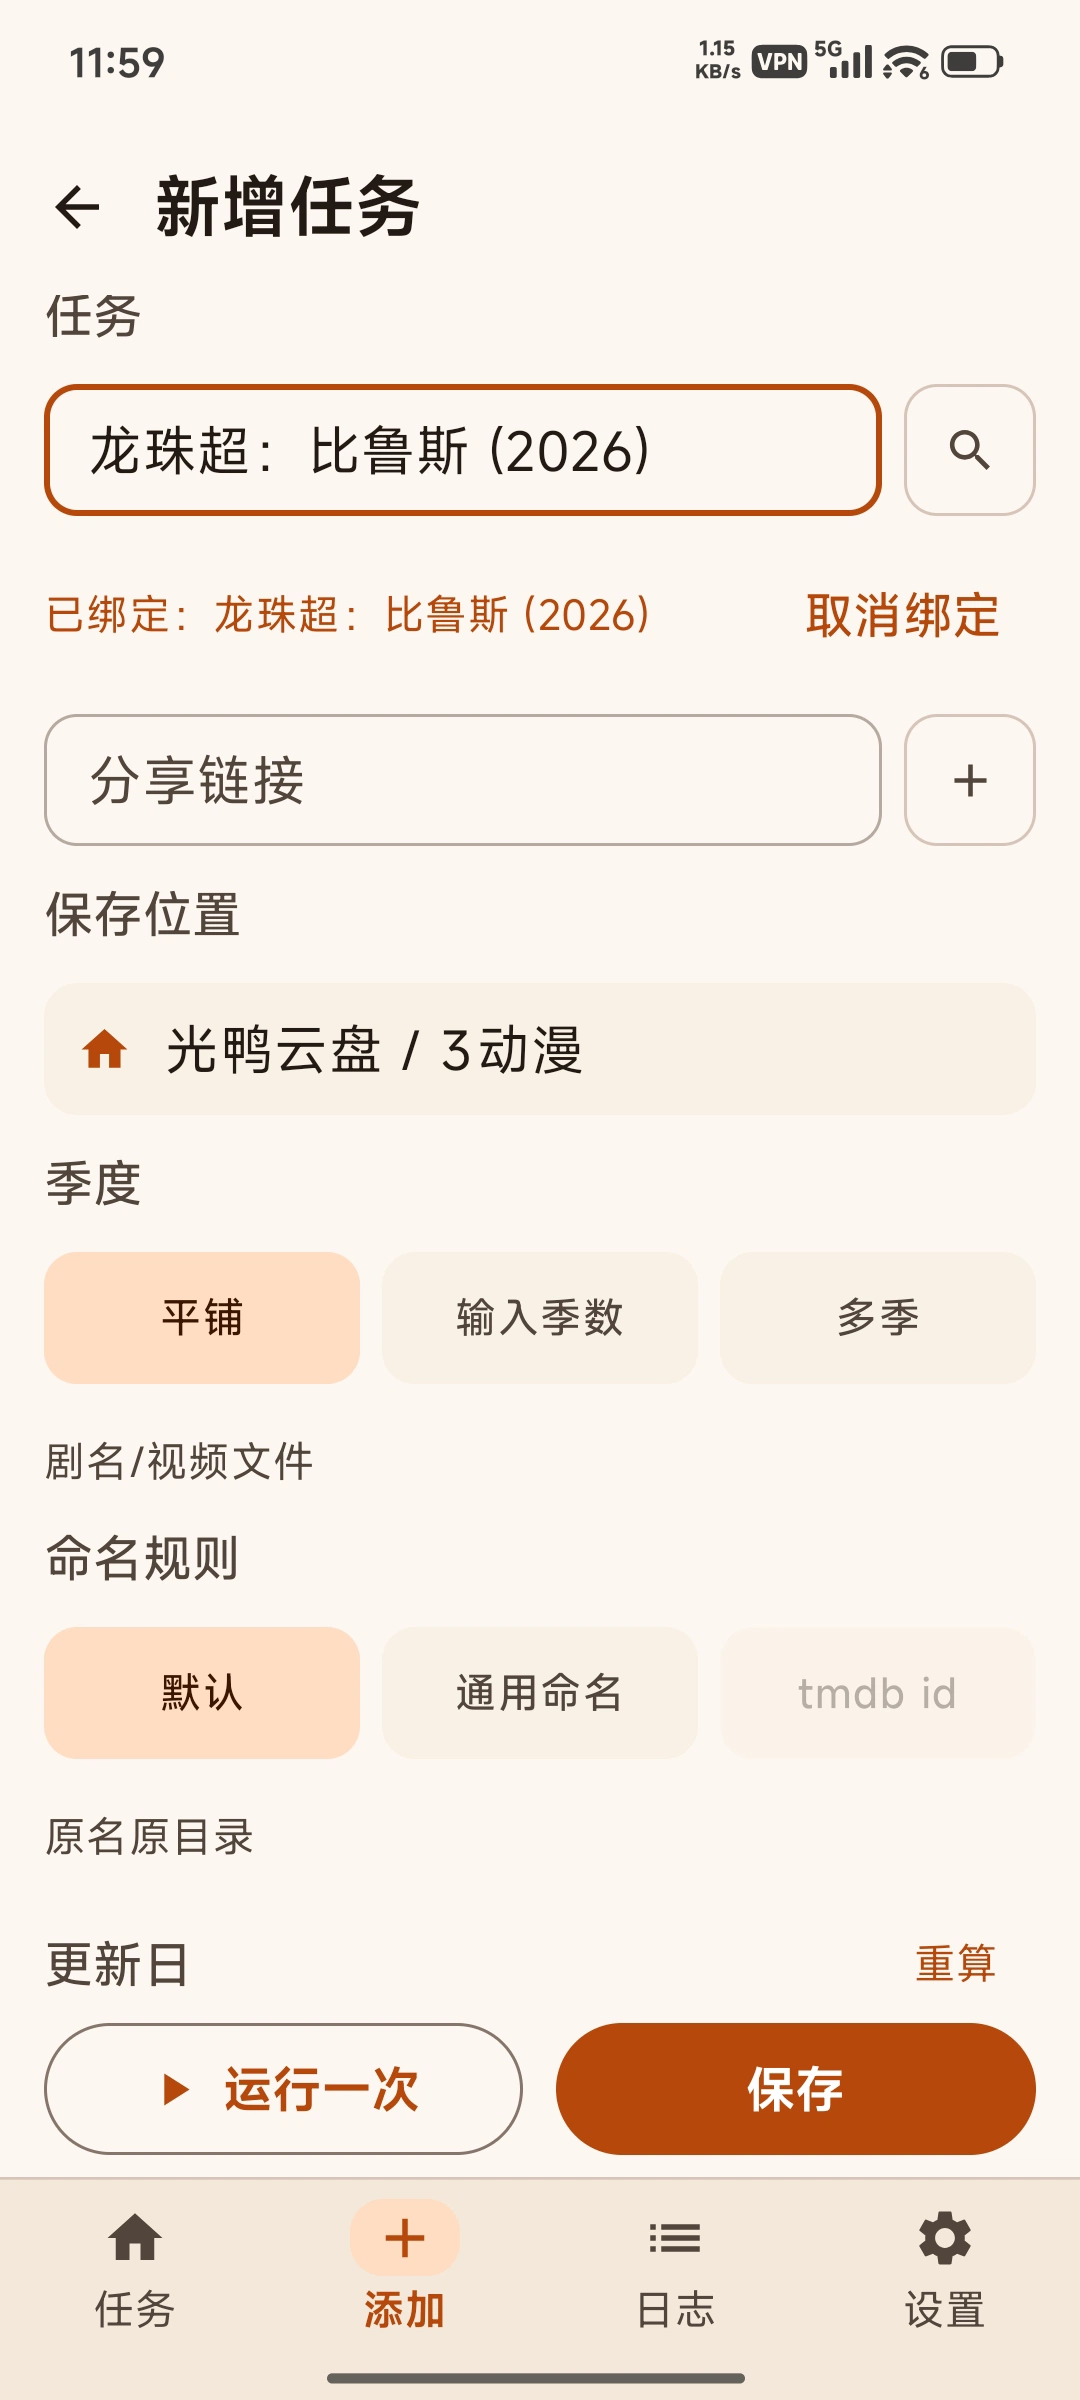
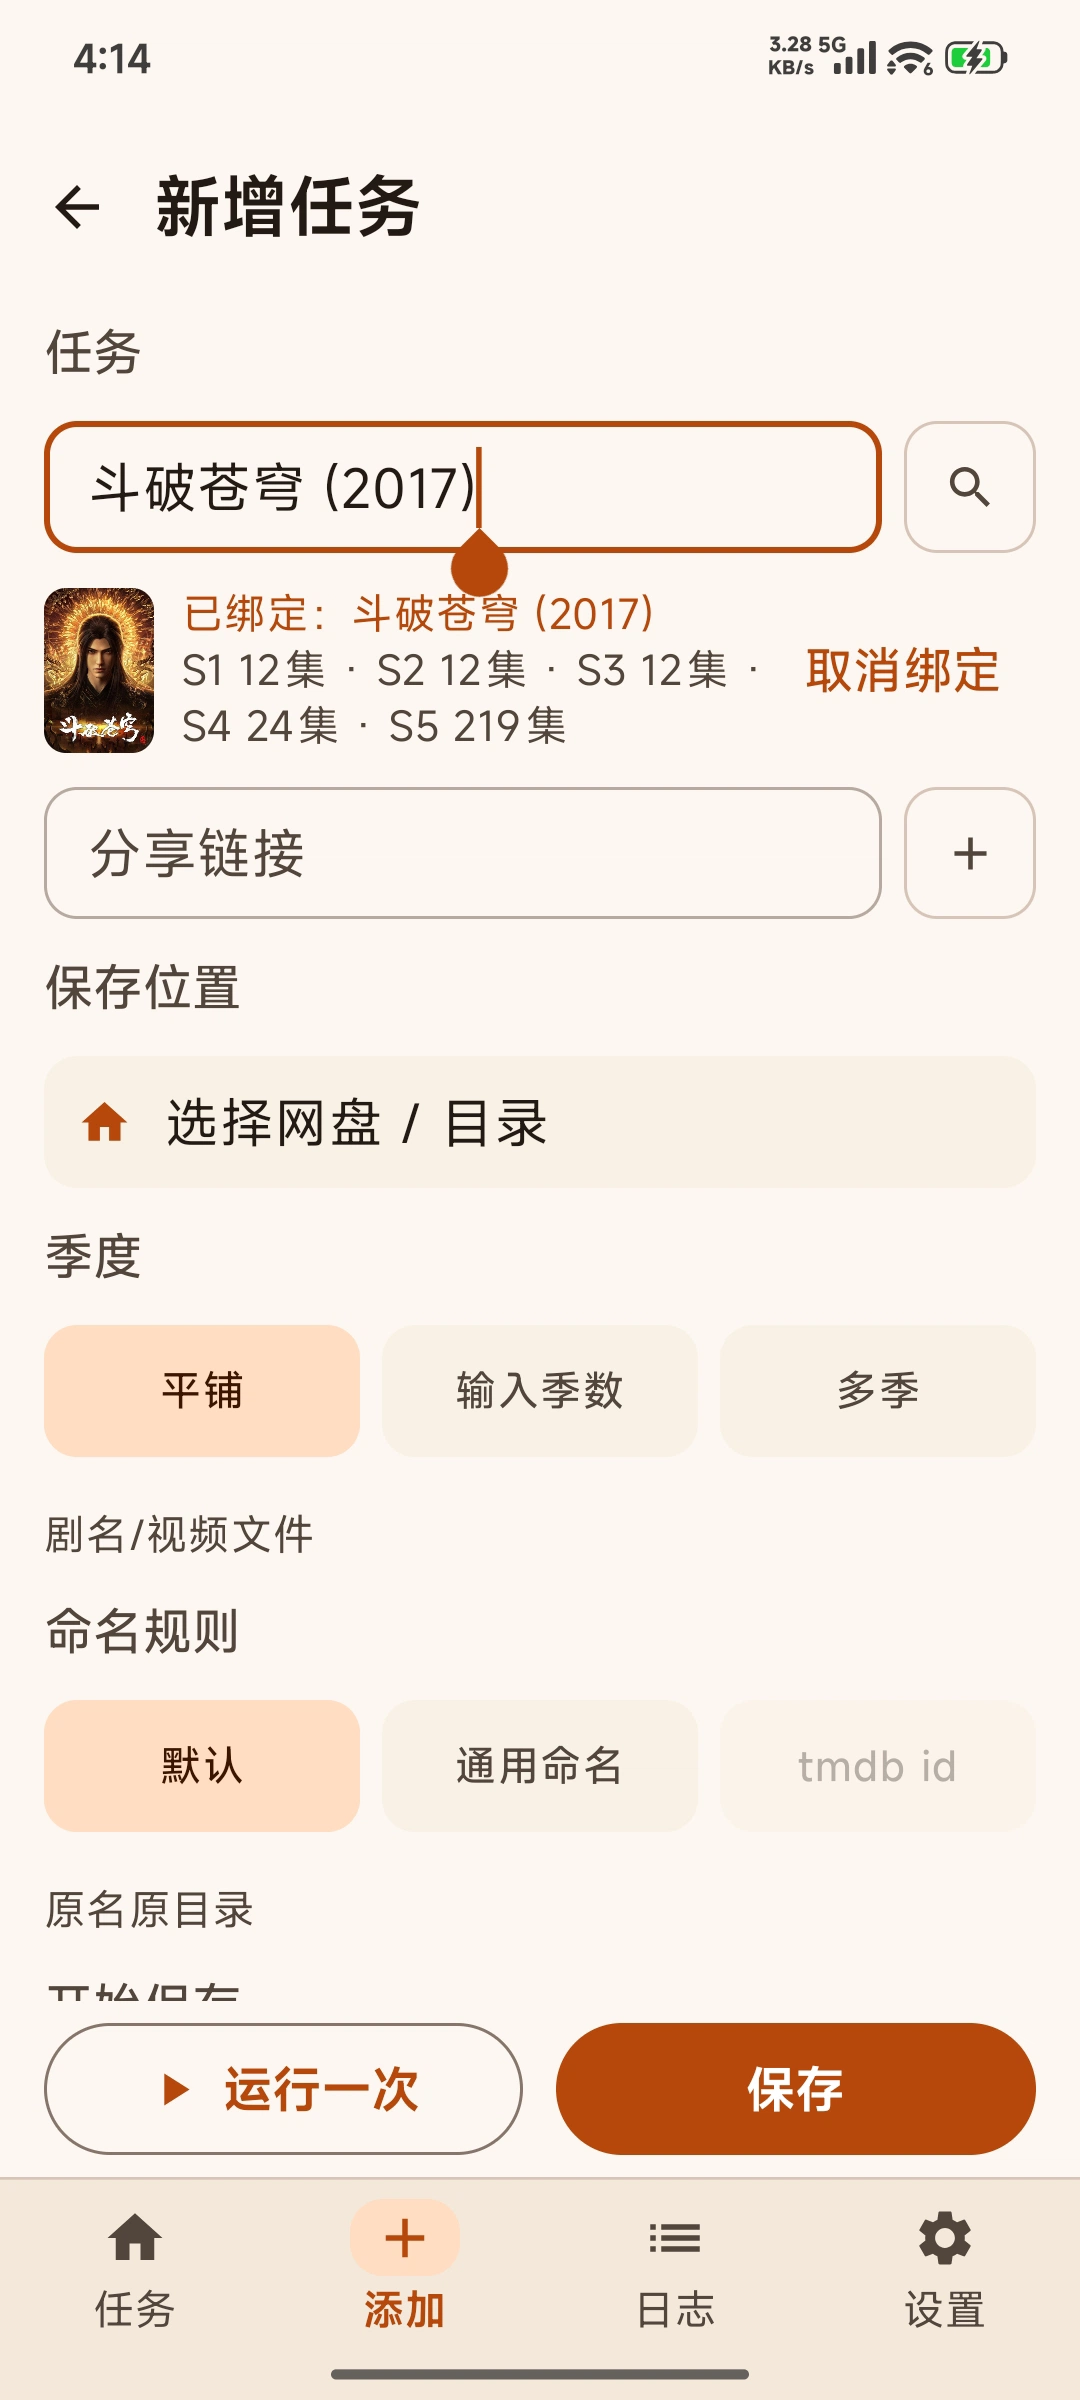
v0.15.2 设置项按组排版 + README 更换真机截图

diff --git a/app/src/main/java/com/ashchan/cloudsaver/ui/tasks/NewTaskScreen.kt b/app/src/main/java/com/ashchan/cloudsaver/ui/tasks/NewTaskScreen.kt
@@ -13,6 +13,7 @@ import androidx.compose.foundation.clickable
 import androidx.compose.foundation.layout.Arrangement
 import androidx.compose.foundation.layout.Box
 import androidx.compose.foundation.layout.Column
+import androidx.compose.foundation.layout.ColumnScope
 import androidx.compose.foundation.layout.PaddingValues
 import androidx.compose.foundation.layout.Row
 import androidx.compose.foundation.layout.Spacer
@@ -586,8 +587,14 @@ fun NewTaskScreen(
                 }
             }
 
+            // 设置区按「组」排：组间 24dp，组内标题→控件 8dp、控件→说明 4dp
+            Column(
+                Modifier.fillMaxWidth(),
+                verticalArrangement = Arrangement.spacedBy(24.dp),
+            ) {
             // 保存位置：网盘 + 目录合成一行，点进去从网盘根开始逐层下钻
-            SectionLabel("保存位置")
+            FormGroup {
+            SectionLabel("保存位置", Modifier.padding(bottom = 4.dp))
             SettingRow(
                 icon = {
                     Icon(
@@ -610,9 +617,11 @@ fun NewTaskScreen(
                 },
                 onClick = { showPathPicker = true },
             )
+            }
 
             // 季度三选一：平铺 / 输入季数（含 0 = 特别版）/ 多季；按钮下用一行小黑字说明落盘结构
-            SectionLabel("季度")
+            FormGroup {
+            SectionLabel("季度", Modifier.padding(bottom = 4.dp))
             Row(Modifier.fillMaxWidth(), horizontalArrangement = Arrangement.spacedBy(8.dp)) {
                 SmallChoice(
                     "平铺",
@@ -651,9 +660,11 @@ fun NewTaskScreen(
                     modifier = Modifier.padding(top = 4.dp),
                 )
             }
+            }
 
             // 命名规则：默认 / 通用命名 / tmdb id，三项并排一行
-            SectionLabel("命名规则")
+            FormGroup {
+            SectionLabel("命名规则", Modifier.padding(bottom = 4.dp))
             Row(Modifier.fillMaxWidth(), horizontalArrangement = Arrangement.spacedBy(8.dp)) {
                 SmallChoice(
                     text = "默认",
@@ -683,9 +694,11 @@ fun NewTaskScreen(
                     else -> "原名原目录"
                 }
             )
+            }
 
             // 开始保存：单季只选集数，多季多一个季数；空白 = 从头
-            SectionLabel("开始保存")
+            FormGroup {
+            SectionLabel("开始保存", Modifier.padding(bottom = 4.dp))
             Row(
                 Modifier.fillMaxWidth(),
                 verticalAlignment = Alignment.CenterVertically,
@@ -714,8 +727,10 @@ fun NewTaskScreen(
                     "留空从第 1 集开始"
                 }
             )
+            }
 
             // 更新日：七个排一排；绑了 TMDB 可以一键重算
+            FormGroup {
             Row(Modifier.fillMaxWidth(), verticalAlignment = Alignment.CenterVertically) {
                 SectionLabel("更新日")
                 Spacer(Modifier.weight(1f))
@@ -773,6 +788,8 @@ fun NewTaskScreen(
                         )
                     }
                 }
+            }
+            }
             }
 
             error?.let {
@@ -1002,12 +1019,30 @@ private data class LinkSlot(
 
 // ---------------- 子块 ----------------
 
+/**
+ * 表单的一组：组内标题→控件 8dp（标题自带 4dp 底距 + 4dp 间距）、控件→说明 4dp。
+ * 组与组之间由外层 Column 的 24dp 拉开，视觉上自然成块。
+ */
 @Composable
-private fun SectionLabel(text: String) {
+private fun FormGroup(content: @Composable ColumnScope.() -> Unit) {
+    Column(
+        Modifier.fillMaxWidth(),
+        verticalArrangement = Arrangement.spacedBy(4.dp),
+        content = content,
+    )
+}
+
+@Composable
+private fun SectionLabel(
+    text: String,
+    modifier: Modifier = Modifier,
+) {
     Text(
         text = text,
         style = MaterialTheme.typography.labelLarge,
-        color = MaterialTheme.colorScheme.onSurfaceVariant,
+        fontWeight = FontWeight.SemiBold,
+        color = MaterialTheme.colorScheme.onSurface,
+        modifier = modifier,
     )
 }
 
@@ -1229,7 +1264,6 @@ private fun FieldHint(text: String) {
         color = MaterialTheme.colorScheme.onSurfaceVariant,
         maxLines = 2,
         overflow = TextOverflow.Ellipsis,
-        modifier = Modifier.padding(top = 6.dp),
     )
 }
 
@@ -1626,6 +1660,8 @@ private fun DraftRunText(text: String, color: Color, animated: Boolean) {
             .padding(bottom = 6.dp),
     )
 }
+
+
 
 
 

diff --git a/README.md b/README.md
@@ -54,9 +54,13 @@
 | --- | --- |
 | <img src="screenshots/01-home.png" width="320"> | <img src="screenshots/02-newtask.png" width="320"> |
 
-| 日志 | 设置 |
+| 运行日志 | 设置 |
 | --- | --- |
 | <img src="screenshots/03-log.png" width="320"> | <img src="screenshots/04-settings.png" width="320"> |
+
+| TMDB 匹配（可选） |
+| --- |
+| <img src="screenshots/05-tmdb.png" width="320"> |
 
 ## 🛠 构建
 
